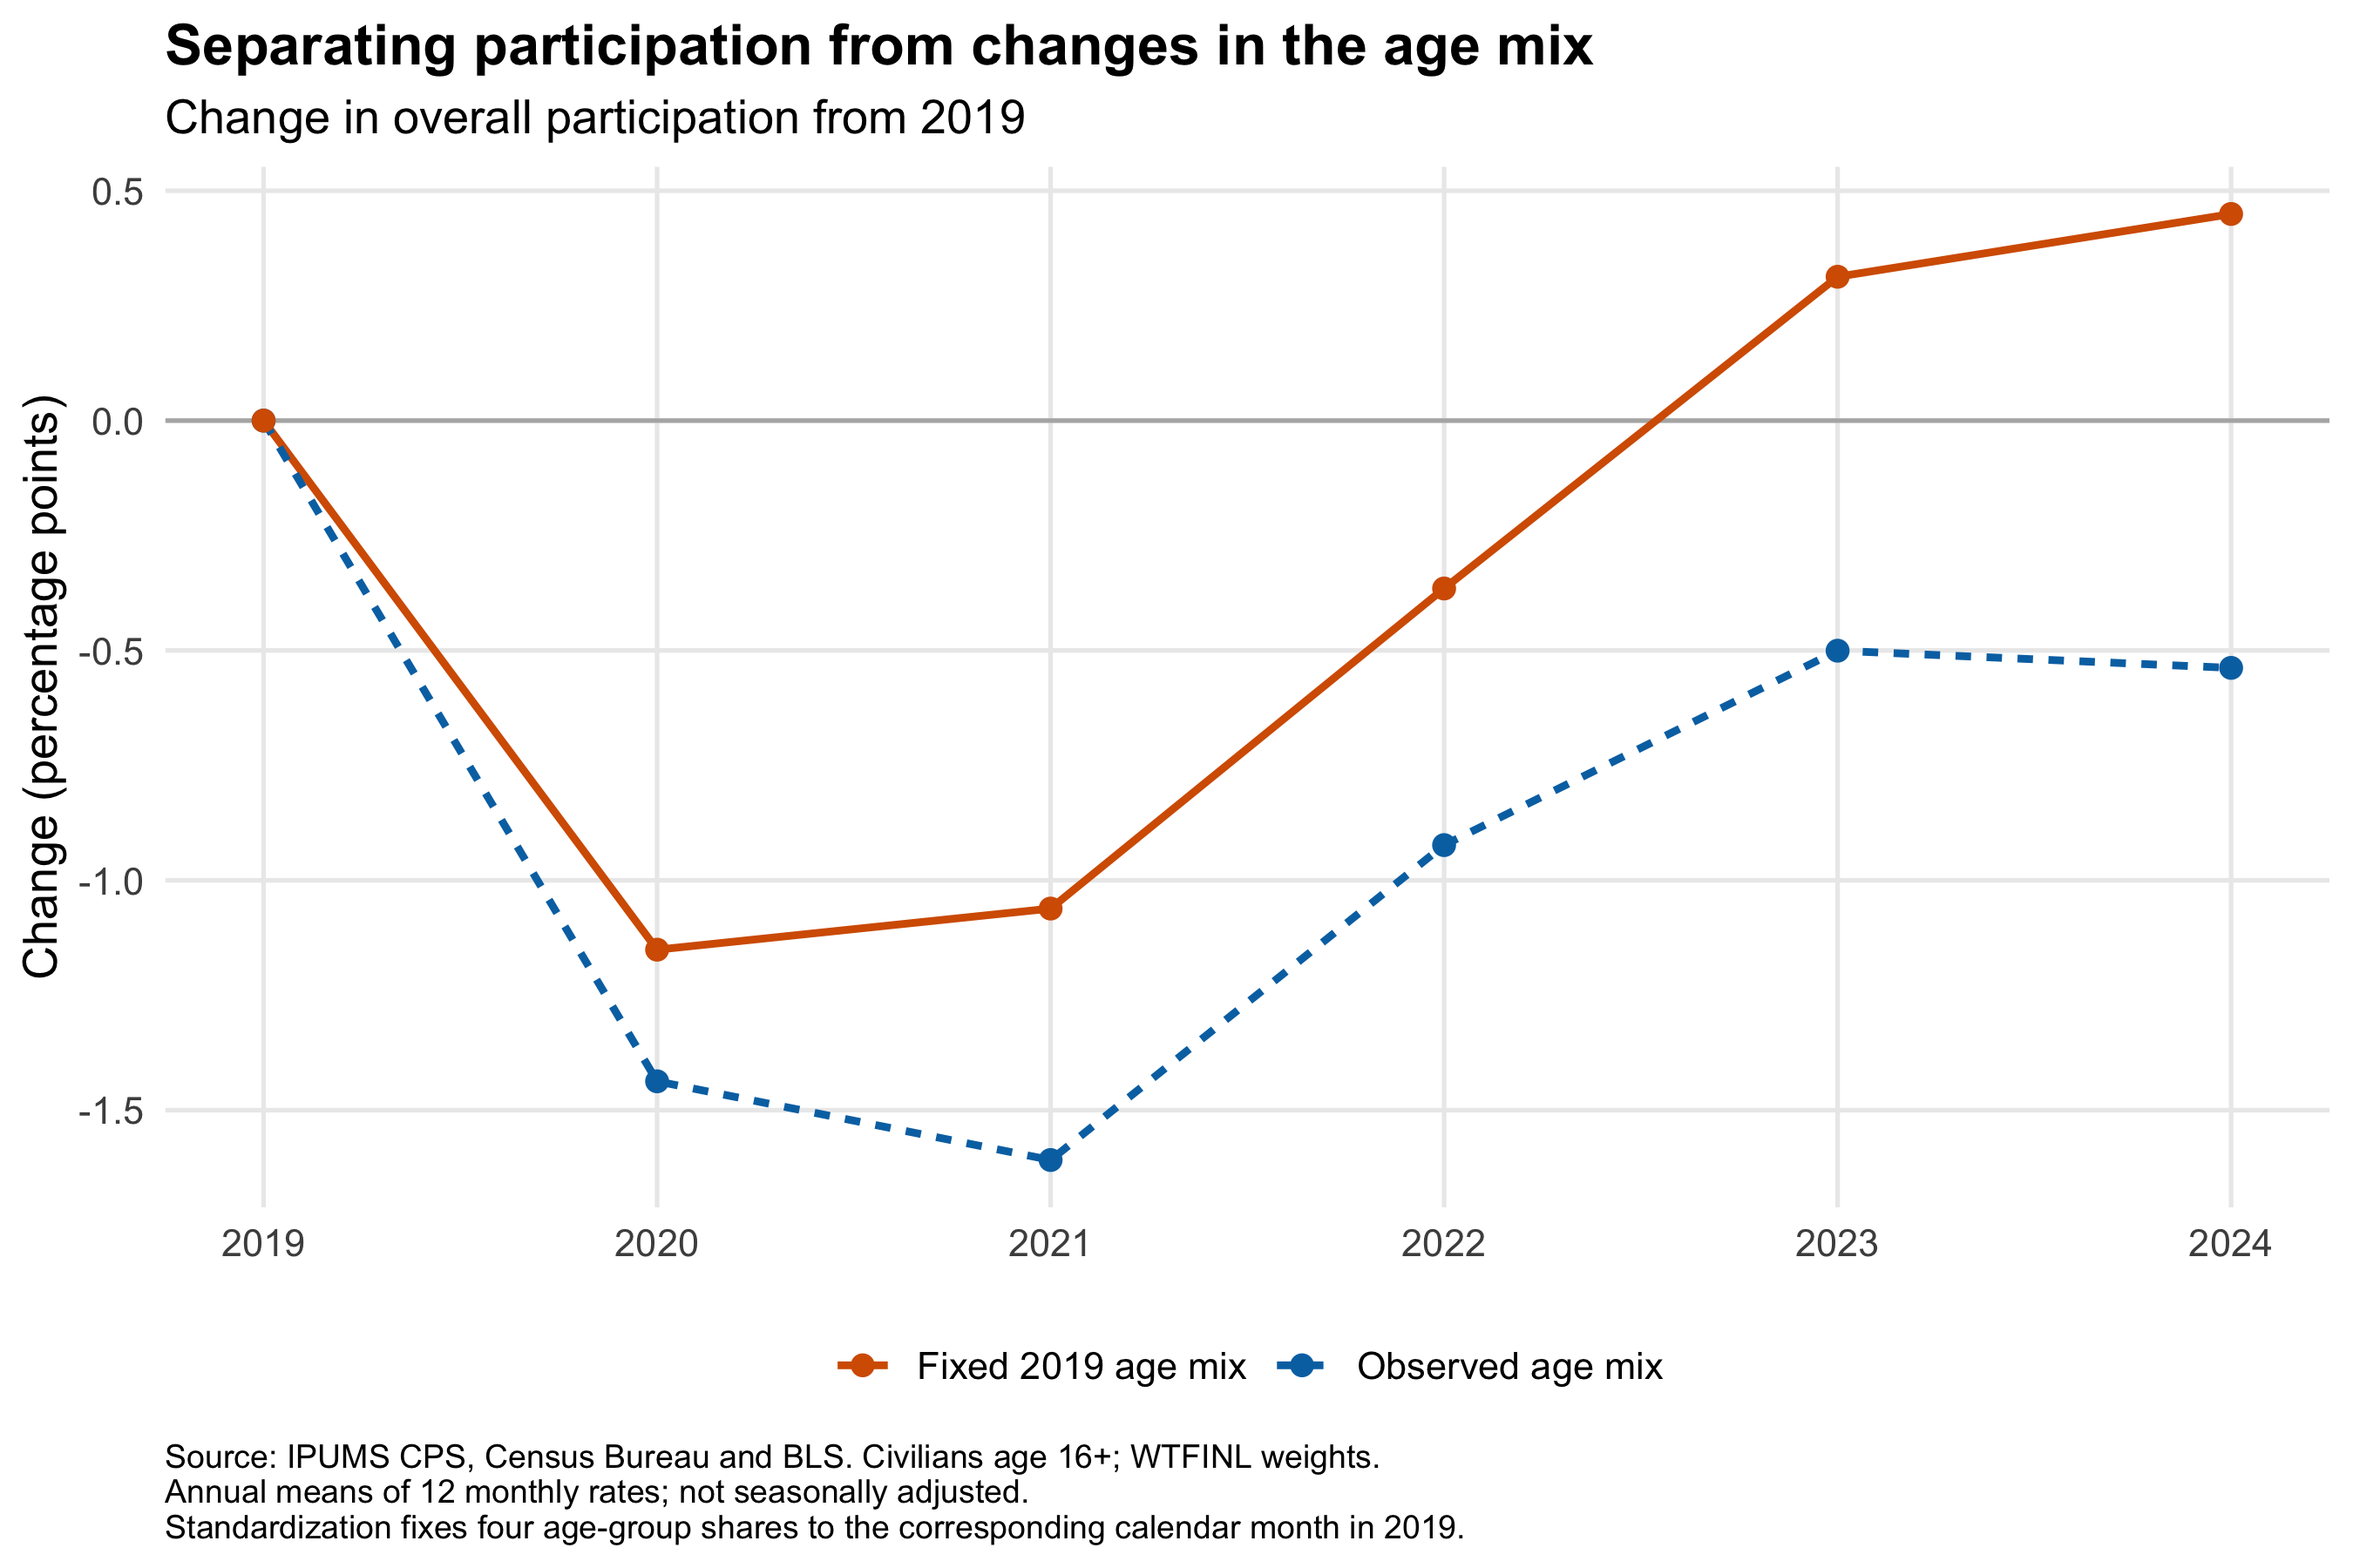
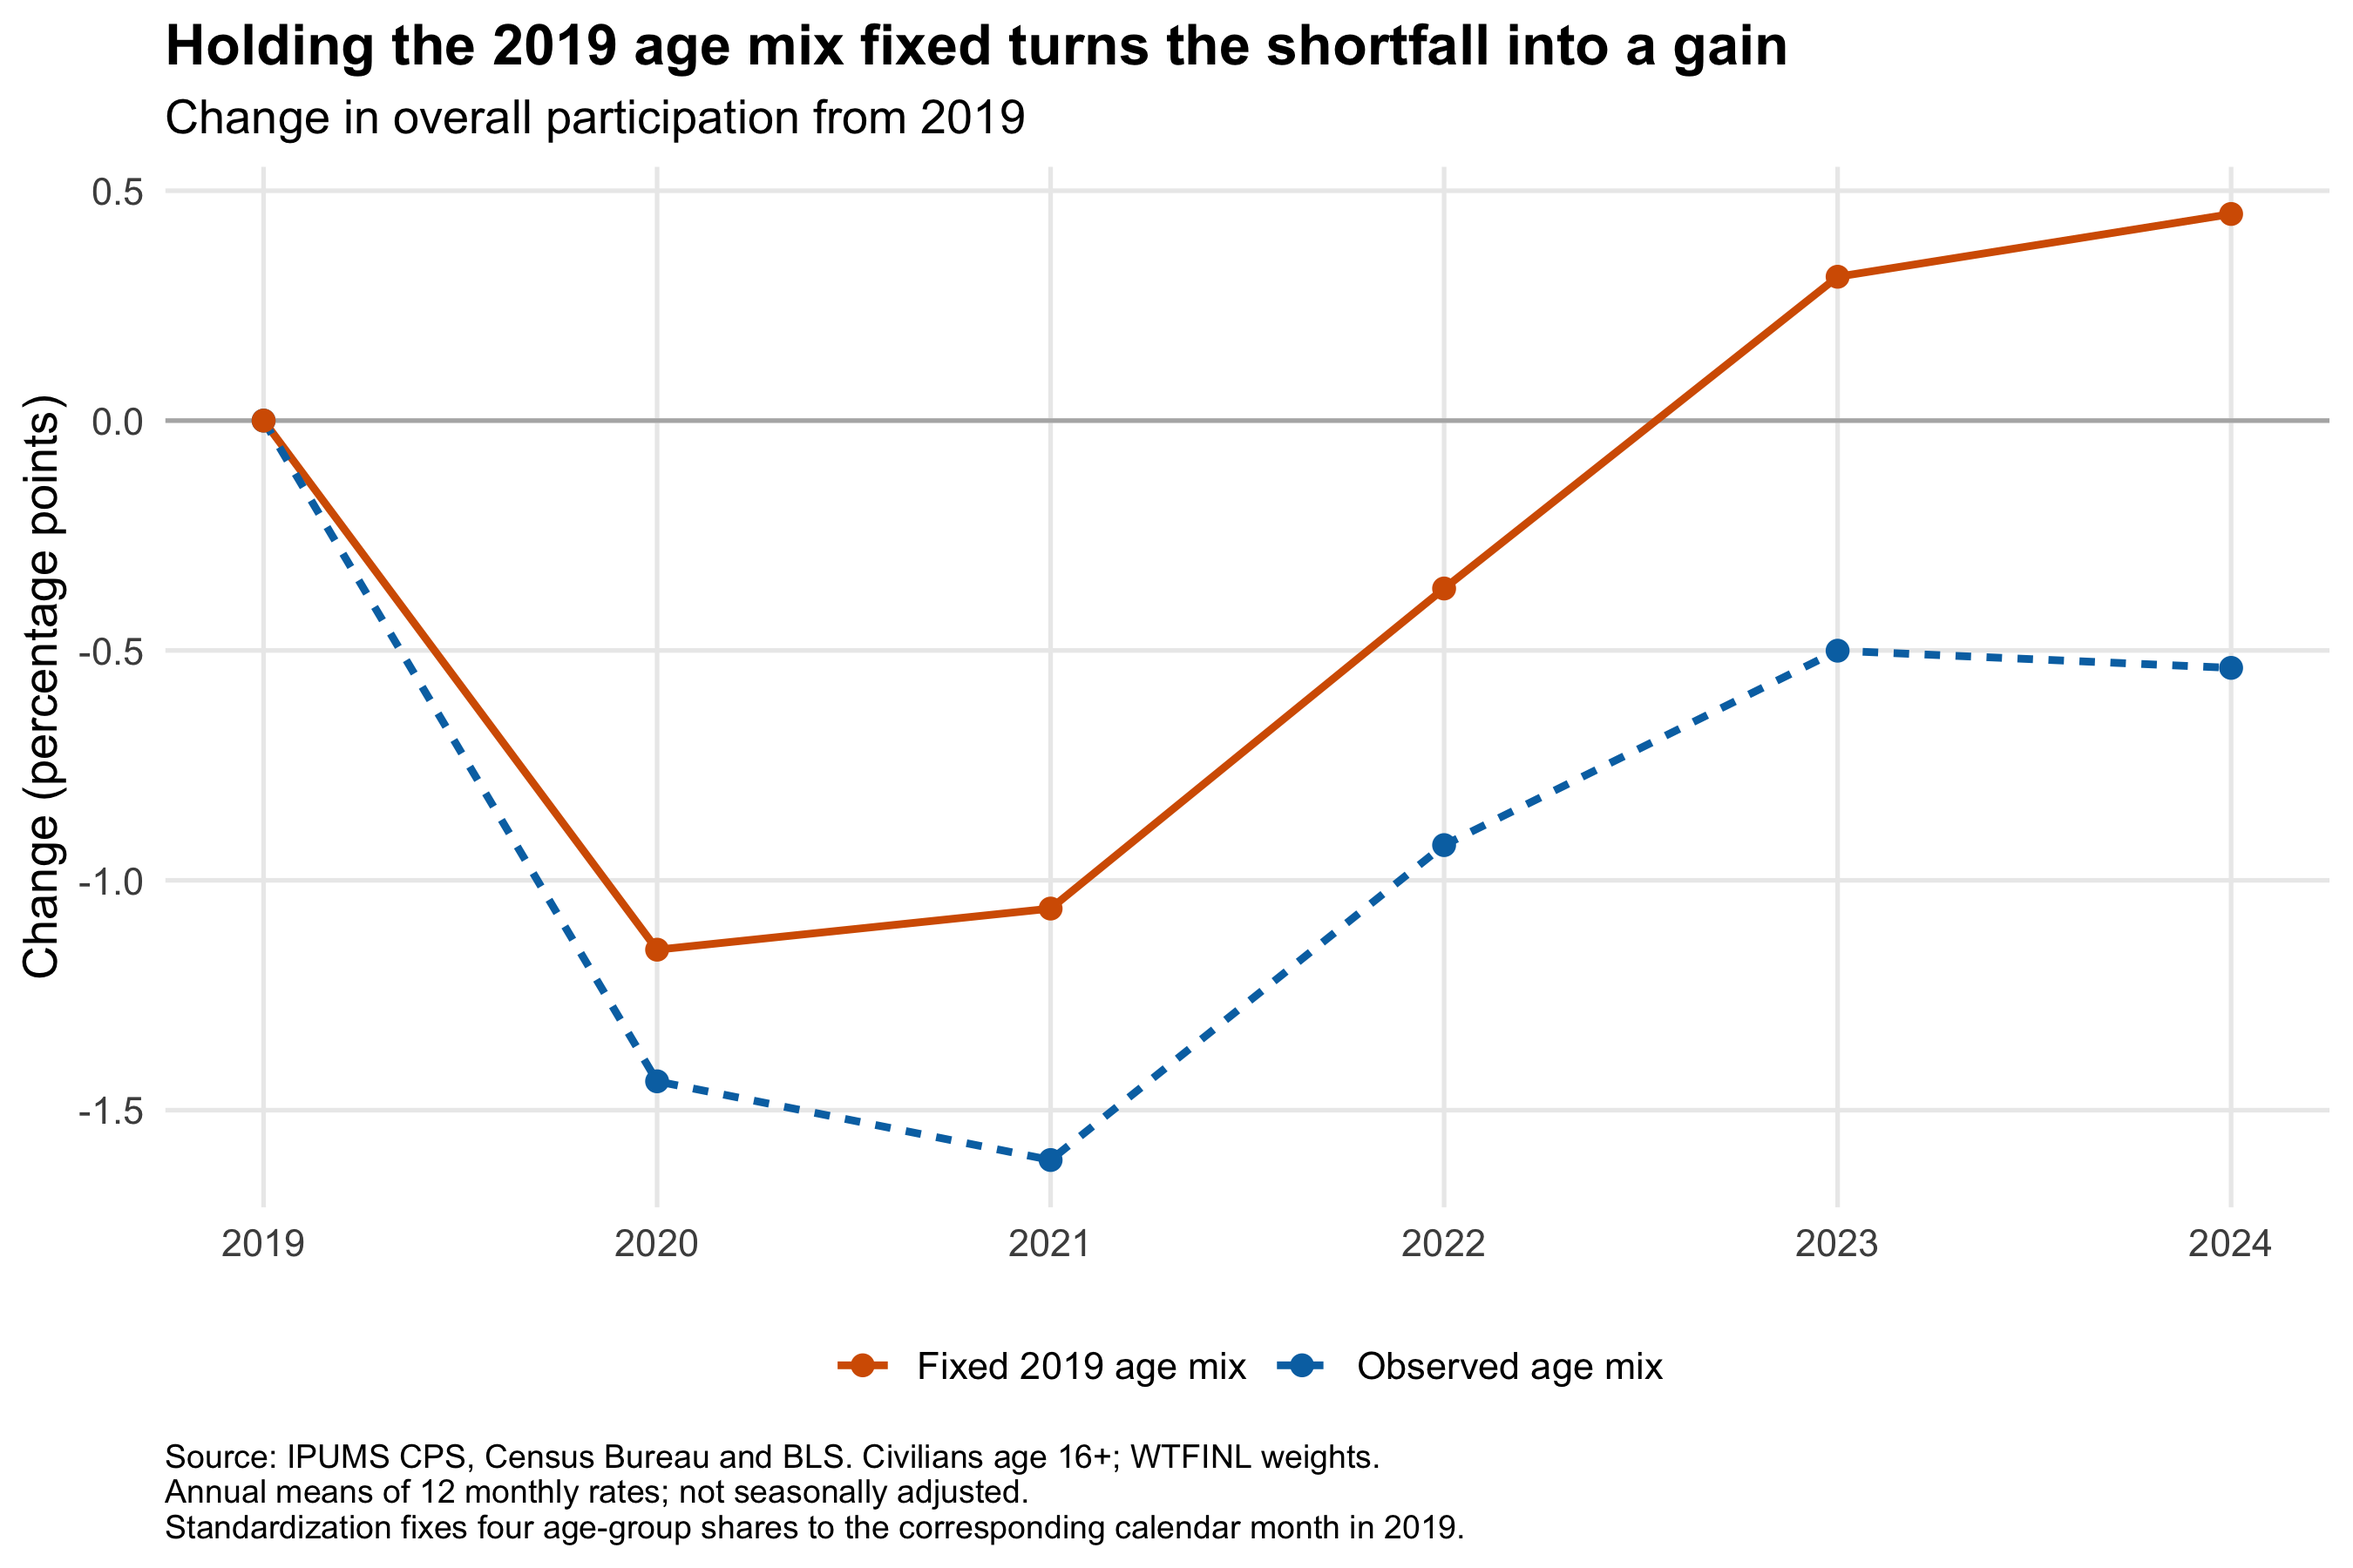
Update Post 1 link, Post 3 chart title, and post documentation

Changed region(s): [[0.0622, 0.0, 0.7467, 0.0622]]

diff --git a/docs/index.html b/docs/index.html
@@ -411,7 +411,7 @@ Yipin Zhang
 </a>
 </div>
 </div>
-<div class="quarto-post image-right" data-index="6" data-categories="c3RhdGlzdGljcyUyQ2luZmVyZW5jZQ==" data-listing-date-sort="1789358400000" data-listing-file-modified-sort="1792515508538" data-listing-date-modified-sort="1792468800000" data-listing-reading-time-sort="6" data-listing-word-count-sort="1196">
+<div class="quarto-post image-right" data-index="6" data-categories="c3RhdGlzdGljcyUyQ2luZmVyZW5jZQ==" data-listing-date-sort="1789358400000" data-listing-file-modified-sort="1793060191254" data-listing-date-modified-sort="1792468800000" data-listing-reading-time-sort="6" data-listing-word-count-sort="1200">
 <div class="thumbnail"><a href="./posts/p-values/index.html" class="no-external">
 
 <p class="card-img-top"><img loading='lazy' src="posts/p-values/results/figures/fig-null-dist-1.png" alt="A distribution centered on zero, with a small orange right tail beyond a dashed vertical line at 0.34, labelled about 3 in 100 under no average change."  class="thumbnail-image card-img"/></p>

diff --git a/docs/posts/p-values/index.html b/docs/posts/p-values/index.html
@@ -298,6 +298,8 @@ Figure&nbsp;1: Simulated average score changes under the null (histogram), with 
 <section id="reference" class="level2">
 <h2 class="anchored" data-anchor-id="reference">Reference</h2>
 <p>Wasserstein, R. L., and Lazar, N. A. (2016). <a href="https://doi.org/10.1080/00031305.2016.1154108">The ASA’s Statement on p-Values: Context, Process, and Purpose</a>. <em>The American Statistician</em>, 70(2), pages 129 to 133.</p>
+<hr>
+<p><strong>Code and replication:</strong> <a href="https://github.com/yipin-grena/aeds6400-blog/tree/main/posts/p-values">GitHub repository</a>.</p>
 
 
 </section>

diff --git a/README.md b/README.md
@@ -8,7 +8,7 @@ Blog posts by Yipin Zhang (grenaz@sas.upenn.edu), Fall 2026.
 
 | # | Post | Code and replication |
 |---|------|----------------------|
-| 1 | [What is a p-value?](https://yipin-grena.github.io/aeds6400-blog/posts/p-values/) | `posts/p-values/` |
+| 1 | [What a p-value actually tells you](https://yipin-grena.github.io/aeds6400-blog/posts/p-values/) | `posts/p-values/` |
 | 2 | [Python leads technology mentions in Hacker News hiring posts](https://yipin-grena.github.io/aeds6400-blog/posts/web-scraping/) | [`posts/web-scraping/`](posts/web-scraping/README.md) |
 | 3 | [Did labor-force participation recover equally across age groups?](https://yipin-grena.github.io/aeds6400-blog/posts/cps-participation/) | [`posts/cps-participation/`](posts/cps-participation/README.md) |
 | 4 | [Inflation fell first, unemployment rose later: The U.S. experience through 2024](https://yipin-grena.github.io/aeds6400-blog/posts/inflation-unemployment/) | [`posts/inflation-unemployment/`](posts/inflation-unemployment/README.md) |

diff --git a/posts/everyday-prices/README.md b/posts/everyday-prices/README.md
@@ -4,7 +4,7 @@
 
 ## Question and scope
 
-Which of five selected everyday categories was furthest above its December 2019 price level by December 2024, and how does that differ from annual inflation? One Plotly figure switches between cumulative percentage changes and year-over-year changes; category controls and date zoom let readers explore different paths. No universal three-figure minimum applies to Post 7.
+Which of five selected everyday categories was furthest above its December 2019 price level by December 2024, and how does that differ from annual inflation? One Plotly figure switches between cumulative percentage changes and year-over-year changes; category controls and date zoom let readers explore different paths.
 
 The endpoint is deliberately historical. This is not an assessment of current prices or affordability. The five categories illustrate different spending areas and are not an exhaustive household budget or a ranking of every CPI category.
 
